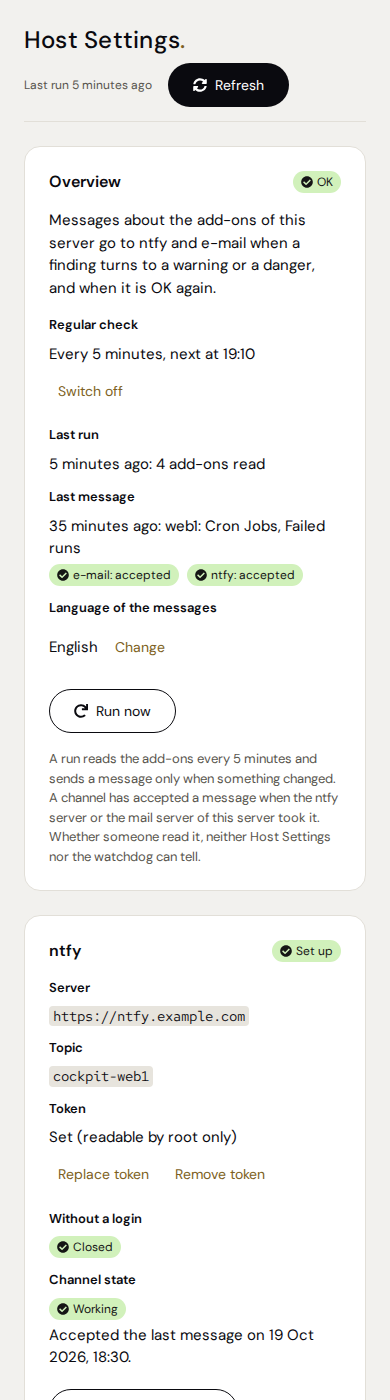
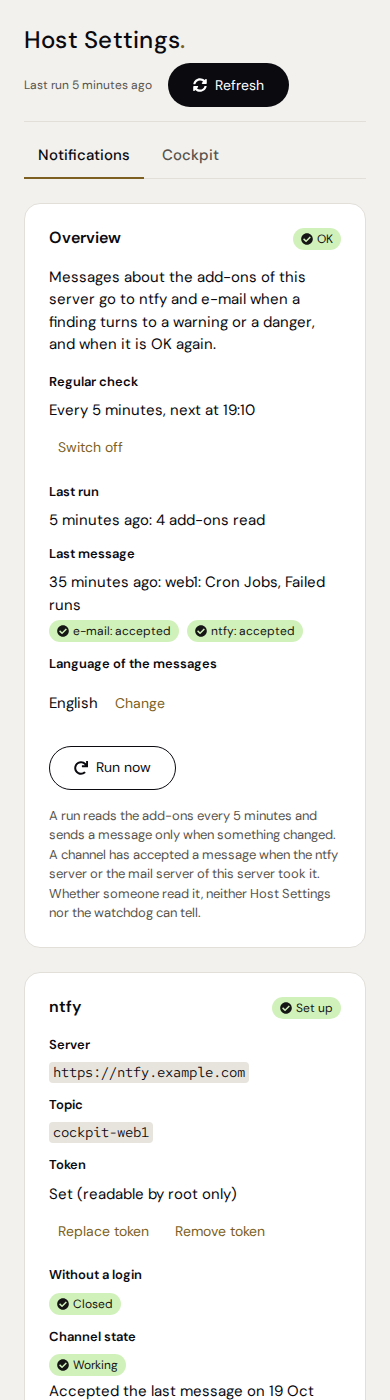
Take the pictures of this version

Changed region(s): [[0.0923, 0.0921, 0.8923, 1.0], [0.4308, 0.0921, 0.5538, 0.1229]]

diff --git a/README.md b/README.md
@@ -150,6 +150,8 @@ Cockpit's own (Overview, Logs, Services, Terminal and so on) and those of the ad
 three groups Apps, System and Tools. The tab lists them under the names the navigation shows,
 translated as there (with a Cockpit older than 332 in English, see [Known limits](#known-limits)).
 
+![The Cockpit tab: who sees the changes, a broken override file named, and the entries of System with their state and the buttons to move, rename and hide them](docs/img/menu.png)
+
 - **For all users, or just for me.** "For all users" needs administrative access and writes
   `/etc/cockpit/<folder>.override.json`: everyone on this server sees the change, unless their
   own setting says otherwise. "Just for me" writes `~/.config/cockpit/<folder>.override.json` in

diff --git a/CHANGELOG.md b/CHANGELOG.md
@@ -45,7 +45,8 @@ which of them it shows, for all users or just for yourself.
   and Cockpit's menu stays as it is until it is changed in the tab. Going back to 0.3.0 leaves the
   menu as set, without the tab to change it.
 - **README, AppStream and package description:** they name the Cockpit tab, and the README
-  explains it in a section of its own, "Cockpit's menu".
+  explains it in a section of its own, "Cockpit's menu". The pictures show this version, the tab
+  bar and the Cockpit tab among them.
 
 ## 0.3.0 – 2026-11-01
 
